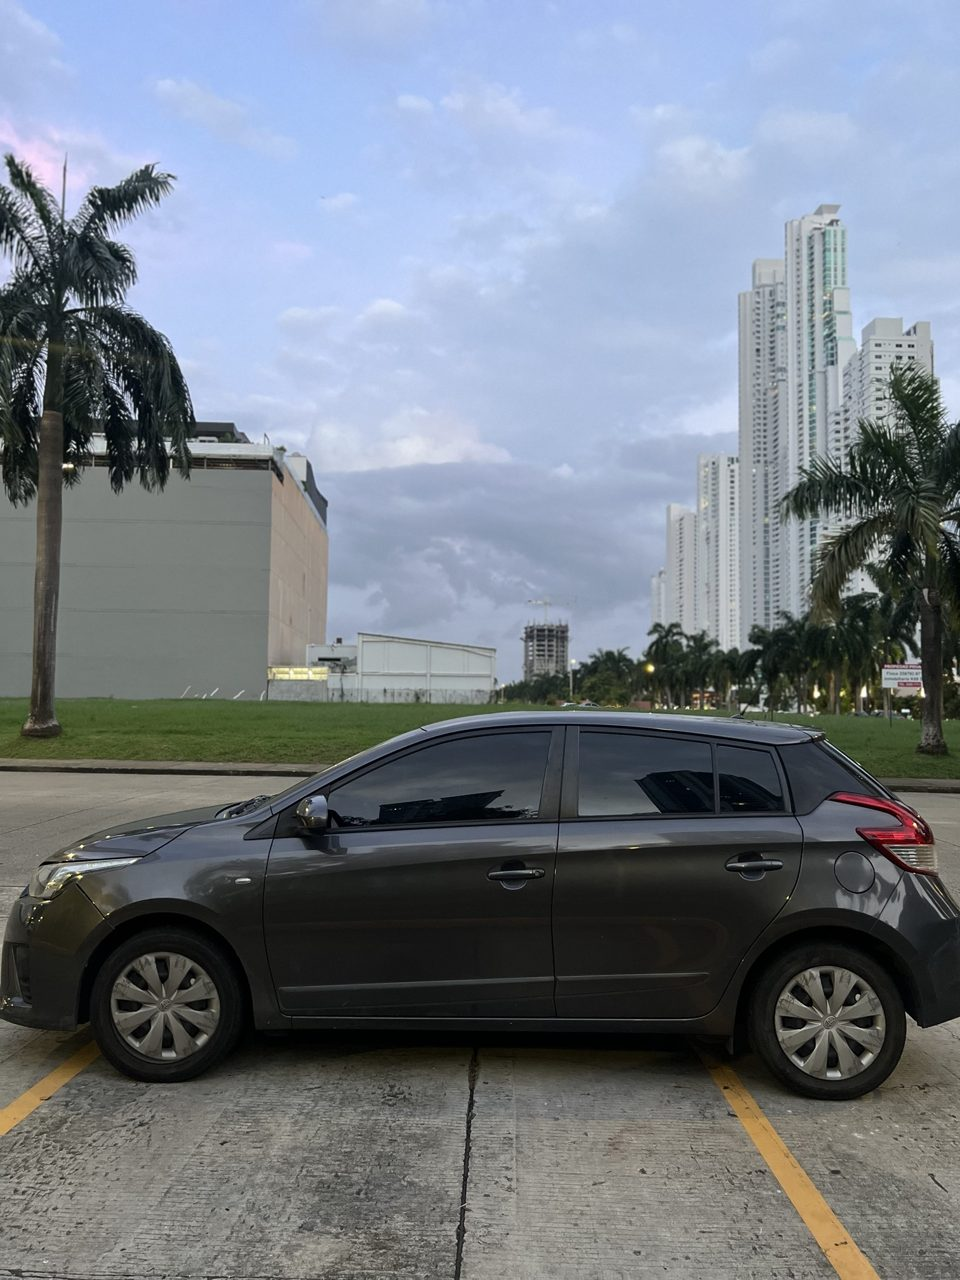
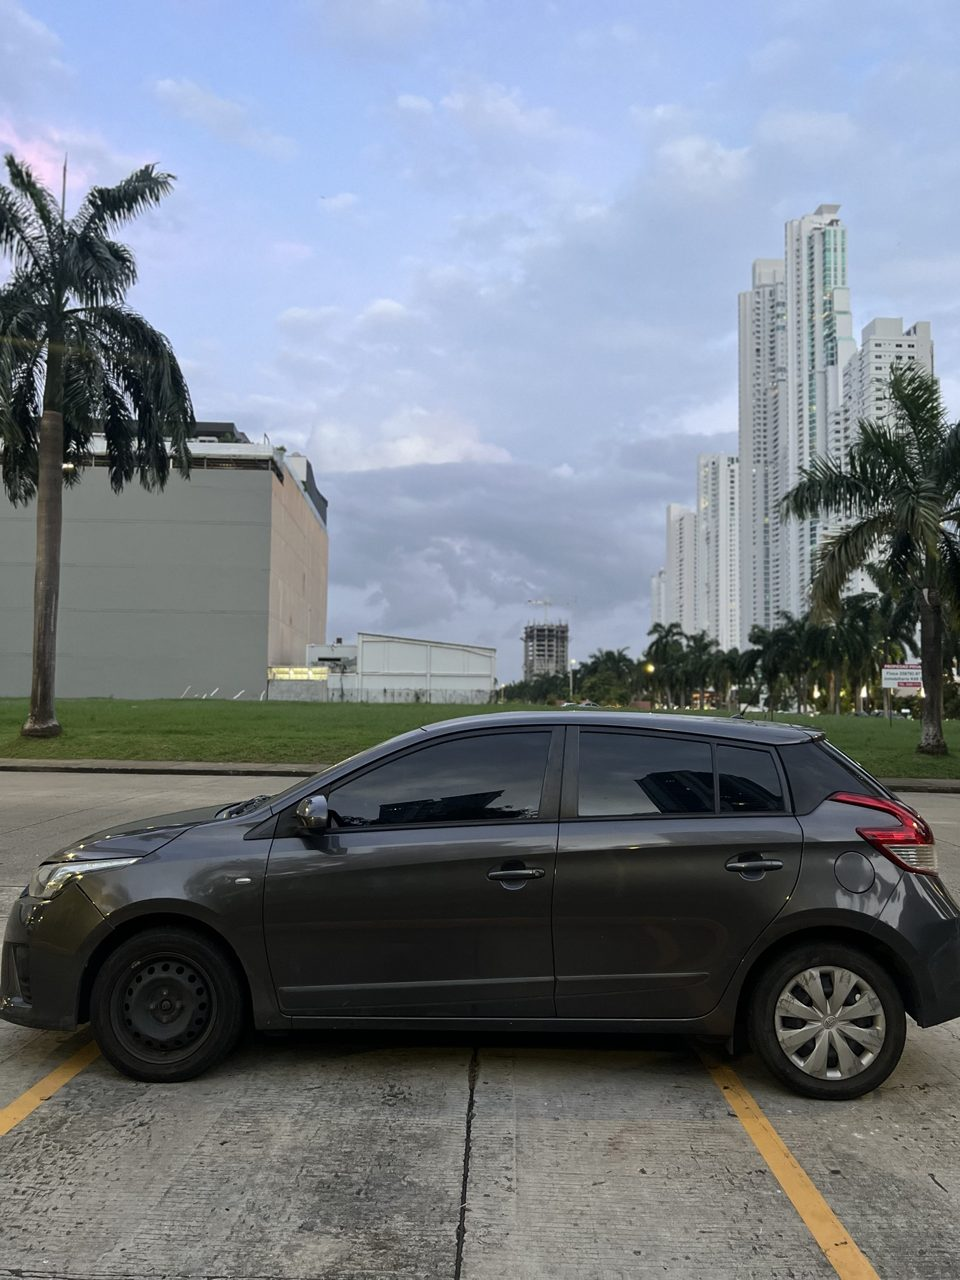
Yaris: foto 02 original (sin tapacubos retocado), parachoques: esquina izquierda, N23 con la confirmación del precio
Claude-Session: https://claude.ai/code/session_01Waia73eHNWtSrif5AzmwHD

Changed region(s): [[0.0938, 0.7188, 0.25, 0.8438]]

diff --git a/web/en/en.js b/web/en/en.js
@@ -9,7 +9,7 @@ window.EN = {
     "mazda-cx-5-2015": { destacado: "SkyActiv engine · Automatic · White · Black interior", defectos: "Scratches on the front right bumper · Small dent on the tailgate" },
     "toyota-corolla-le-2018": { destacado: "LE trim · Sedan · Gray · Alloy wheels" },
     "geely-coolray-2026": { destacado: "Practically new · White · Touchscreen with Apple CarPlay · Leather seats · Alloy wheels" },
-    "toyota-yaris-2015": { destacado: "5-door hatchback · E trim · Steering wheel audio controls · Gray", defectos: "Front bumper misaligned on the right side · One front hubcap missing · Stains on the rear upholstery" },
+    "toyota-yaris-2015": { destacado: "5-door hatchback · E trim · Steering wheel audio controls · Gray", defectos: "Front bumper misaligned at the left corner (driver's side) · One front hubcap missing · Stains on the rear upholstery" },
     "audi-q5-2013": { destacado: "quattro all-wheel drive · 2.0 Turbo engine · Leather seats · Wood trim · White", defectos: "Scuffs on the lower front bumper · Scratches on the rear bumper" },
     "ford-edge-2016": { destacado: "One owner · New battery, engine mounts and A/C evaporator · Recent maintenance" },
     "range-rover-sport-2019": { destacado: "Excellent physical and mechanical condition" },

diff --git a/companion/web.html b/companion/web.html
@@ -708,7 +708,7 @@ window.INVENTARIO = [
       "img/carros/toyota-yaris-2015/09.jpg"
     ],
     "destacado": "Hatchback 5 puertas · Versión E · Controles de audio en el volante · Color gris",
-    "defectos": "Parachoques delantero desalineado del lado derecho · Falta un tapacubos delantero · Tapicería trasera con manchas"
+    "defectos": "Parachoques delantero desalineado en la esquina izquierda (lado del conductor) · Falta un tapacubos delantero · Tapicería trasera con manchas"
   },
   {
     "id": "audi-q5-2013",

diff --git a/web/datos.js b/web/datos.js
@@ -182,7 +182,7 @@ window.INVENTARIO = [
       "img/carros/toyota-yaris-2015/09.jpg"
     ],
     "destacado": "Hatchback 5 puertas · Versión E · Controles de audio en el volante · Color gris",
-    "defectos": "Parachoques delantero desalineado del lado derecho · Falta un tapacubos delantero · Tapicería trasera con manchas"
+    "defectos": "Parachoques delantero desalineado en la esquina izquierda (lado del conductor) · Falta un tapacubos delantero · Tapicería trasera con manchas"
   },
   {
     "id": "audi-q5-2013",

diff --git a/docs/normas.md b/docs/normas.md
@@ -29,7 +29,7 @@ Lo que está aquí no se vuelve a preguntar. Si dos normas chocan, manda la más
 | N20c | 2026-10-28 | Audi Q5: defectos | «Quitale el defecto del cuero del asiento del conductor» → se quita «Desgaste en el cuero del asiento del conductor» de los defectos en la web (ES y EN) | Chat |
 | N21 | 2026-10-28 | Web: Mazda CX-5 2015 a $10,000 | «Y sube la cx5 a 10 / Mil» + herramienta de preguntas «La Mazda CX-5 2015 está en la web a $8,500. ¿La subo a $10,000?» → «Sí, a $10,000» → precio $8,500 → $10,000 (sustituye a N12 en el precio) | Chat |
 | N22 | 2026-11-01 | Web: Fiat 500 Sport 2012 retirado | «Necesito que bajes por favor el Fiat 500 de la página porque Fiat 500, F-I-A-T, porque ya no se va a vender. El dueño se lo decidió quedar.» → se quita el Fiat del inventario de la web (ES y EN). Las fotos se quedan en web/img/carros/fiat-500-sport-2012/ (sin enlaces) porque borrar archivos necesita su «sí» | Chat |
-| N23 | 2026-11-20 | Web: Toyota Yaris 2015, Precio por DM | «Nuevo auto para subir» (9 fotos). Herramienta de preguntas: año → «2015»; precio → «Precio por DM» (sin cifra en la web). Km 106,394 del tablero; automático por la «P» del tablero. Placa trasera tapada con la de Josefine y calcomanía con un nombre quitada; defectos a la vista según las fotos. Después el dueño escribió en el chat «6500 / Precio» → precio $6,500 en la web (la pregunta de confirmación la rechazó: su mensaje es la orden). Pidió además «Hay forma de ponerle la copa delantera que se vea igual que las otras»: en la foto 02 se puso el tapacubos copiando el trasero; el defecto «Falta un tapacubos delantero» se mantiene en el texto para no engañar | Chat |
+| N23 | 2026-11-20 | Web: Toyota Yaris 2015 a $6,500 | «Nuevo auto para subir» (9 fotos). Herramienta de preguntas: año → «2015»; precio → «Precio por DM» (sin cifra en la web). Km 106,394 del tablero; automático por la «P» del tablero. Placa trasera tapada con la de Josefine y calcomanía con un nombre quitada; defectos a la vista según las fotos. Después el dueño escribió en el chat «6500 / Precio» → precio $6,500 en la web (la pregunta de confirmación la rechazó: su mensaje es la orden). Pidió además «Hay forma de ponerle la copa delantera que se vea igual que las otras»: en el chat se le mandó la foto con el tapacubos copiado, pero en la web se publica la foto 02 original (rin de acero a la vista): retocar una pieza que falta engaña al comprador; si quiere ese aspecto, que ponga un tapacubos real. Tras el mensaje de Claude «Precio: $6,500 en la web», el dueño respondió «Perfecto ya lo puedes subir» → confirma $6,500 | Chat |
 
 ## Consecuencias de N06 en este proyecto (2026-10-05)
 - Gate `herramientas/check.py` en hook Stop y pre-push; lista `PENDIENTE-DUENO.md`; este registro; `CONTINUAR.md`; `IDEAS.md`; agente revisor.
